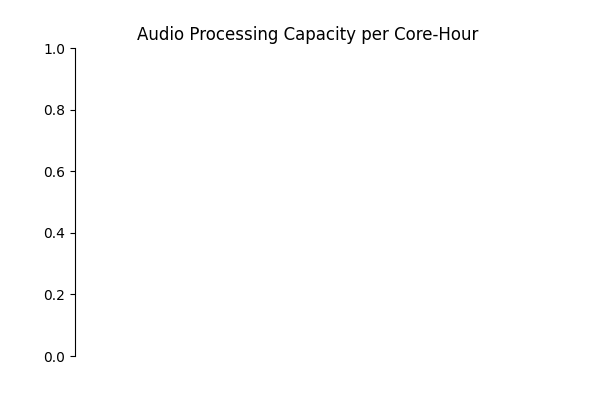
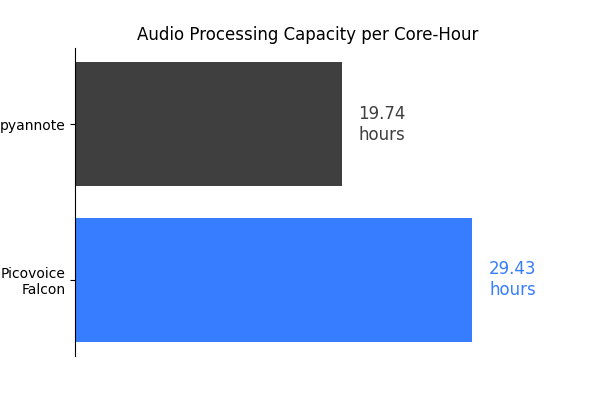
wip

diff --git a/benchmark.py b/benchmark.py
@@ -120,92 +120,46 @@ def _process_accuracy(engine: Engine, dataset: Dataset, verbose: bool = False) -
             f.write("\n")
 
 
-def _process_memory(
-        engine: Engines,
+WorkerResult = namedtuple(
+    'WorkerResult',
+    [
+        'total_audio_sec',
+        'process_time_sec',
+    ])
+
+
+def _process_worker(
+        engine_type: str,
         engine_params: Dict[str, Any],
-        dataset: Dataset,
-        verbose: bool = False) -> None:
-    WorkerResult = namedtuple(
-        'WorkerResult',
-        [
-            'total_audio_sec',
-            'process_time_per_core_sec',
-        ])
+        samples: Sequence[Tuple[str, str, float]]) -> WorkerResult:
+    engine = Engine.create(Engines(engine_type), **engine_params)
+    total_audio_sec = 0
 
-    def _process_worker(
-            engine_type: Engines,
-            engine_params: Dict[str, Any],
-            samples: Sequence[Tuple[str, str, float]]) -> WorkerResult:
-        engine = Engine.create(engine_type, **engine_params)
-        total_audio_sec = 0
+    print(f" len samples: {len(samples)}")
+    tic = perf_counter()
+    for sample in samples:
+        audio_path, _, audio_length = sample
+        print(f"Processing {audio_path}...")
+        total_audio_sec += audio_length
+        _ = engine.diarization(audio_path)
+    toc = perf_counter()
 
-        tic = perf_counter()
-        for sample in samples:
-            audio_path, _, audio_length = sample
-            total_audio_sec += audio_length
-            _ = engine.diarization(audio_path)
-        toc = perf_counter()
+    process_time = toc - tic
+    engine.cleanup()
+    print(f"Total audio time: {total_audio_sec} sec")
+    return WorkerResult(total_audio_sec, process_time)
 
-        process_time = toc - tic
-        engine.cleanup()
-        return WorkerResult(total_audio_sec, process_time)
-
-    num_workers = psutil.cpu_count(logical=False)
-    print(f"Using {num_workers} workers")
-
-    samples = list(dataset.samples[:])
-    samples = samples[:2]
-    chunk_size = math.ceil(len(samples) / num_workers)
-    futures = []
-
-    with ProcessPoolExecutor(max_workers=num_workers) as executor:
-        for i in range(num_workers):
-            chunk = samples[i * chunk_size: (i + 1) * chunk_size]
-            future = executor.submit(
-                _process_worker,
-                engine_type=Engines(engine.value),
-                engine_params=engine_params,
-                samples=chunk)
-            futures.append(future)
-
-    res = [f.results() for f in futures]
 
 
 def _process_cpu(
-        engine: Engines,
+        engine: str,
         engine_params: Dict[str, Any],
-        dataset: Dataset,
-        verbose: bool = False) -> None:
-    WorkerResult = namedtuple(
-        'WorkerResult',
-        [
-            'total_audio_sec',
-            'process_time_per_core_sec',
-        ])
-
-    def _process_worker(
-            engine_type: Engines,
-            engine_params: Dict[str, Any],
-            samples: Sequence[Tuple[str, str, float]]) -> WorkerResult:
-        engine = Engine.create(engine_type, **engine_params)
-        total_audio_sec = 0
-
-        tic = perf_counter()
-        for sample in samples:
-            audio_path, _, audio_length = sample
-            total_audio_sec += audio_length
-            _ = engine.diarization(audio_path)
-        toc = perf_counter()
-
-        process_time = toc - tic
-        engine.cleanup()
-        return WorkerResult(total_audio_sec, process_time)
+        dataset: Dataset) -> None:
 
     num_workers = psutil.cpu_count(logical=False)
-    print(f"Using {num_workers} workers")
 
     samples = list(dataset.samples[:])
-    samples = samples[:2]
+    samples = samples[:8]
     chunk_size = math.ceil(len(samples) / num_workers)
     futures = []
 
@@ -214,14 +168,14 @@ def _process_cpu(
             chunk = samples[i * chunk_size: (i + 1) * chunk_size]
             future = executor.submit(
                 _process_worker,
-                engine_type=Engines(engine.value),
+                engine_type=engine,
                 engine_params=engine_params,
                 samples=chunk)
             futures.append(future)
 
-    res = [f.results() for f in futures]
+    res = [f.result() for f in futures]
     total_audio_time_sec = sum([r.total_audio_sec for r in res])
-    total_process_time_sec = sum([r.process_time_per_core_sec for r in res])
+    total_process_time_sec = sum([r.process_time_sec for r in res])
 
     results_path = os.path.join(RESULTS_FOLDER, str(dataset), f"{str(engine)}_cpu.json")
     results = {
@@ -233,6 +187,40 @@ def _process_cpu(
         json.dump(results, f, indent=2)
 
 
+def _process_mem(
+        engine: str,
+        engine_params: Dict[str, Any],
+        dataset: Dataset) -> None:
+
+    num_workers = psutil.cpu_count(logical=False)
+
+    samples = list(dataset.samples[:])
+    samples = samples[:20]
+    chunk_size = math.ceil(len(samples) / num_workers)
+    futures = []
+
+    with ProcessPoolExecutor(max_workers=num_workers) as executor:
+        for i in range(num_workers):
+            chunk = samples[i * chunk_size: (i + 1) * chunk_size]
+            future = executor.submit(
+                _process_worker,
+                engine_type=engine,
+                engine_params=engine_params,
+                samples=chunk)
+            futures.append(future)
+
+    res = [f.results() for f in futures]
+    total_audio_time_sec = sum([r.total_audio_sec for r in res])
+    total_process_time_sec = sum([r.process_time_sec for r in res])
+
+    results_path = os.path.join(RESULTS_FOLDER, str(dataset), f"{str(engine)}_cpu.json")
+    results = {
+        "total_audio_time_sec": total_audio_time_sec,
+        "total_process_time_sec": total_process_time_sec,
+        "num_workers": num_workers,
+    }
+    with open(results_path, "w") as f:
+        json.dump(results, f, indent=2)
 def main() -> None:
     parser = argparse.ArgumentParser()
     parser.add_argument("--dataset", choices=[ds.value for ds in Datasets], required=True)
@@ -265,17 +253,14 @@ def main() -> None:
 
     if args.type == BenchmarkTypes.ACCURACY.value:
         _process_accuracy(engine, dataset, verbose=args.verbose)
-    elif args.type == BenchmarkTypes.MEMORY.value:
-        if not engine.is_offline():
-            raise ValueError(f"Memory benchmark is only supported for offline engines")
-
-        _process_memory(Engines(args.engine), engine_args, dataset, verbose=args.verbose)
     elif args.type == BenchmarkTypes.CPU.value:
         if not engine.is_offline():
             raise ValueError(f"CPU benchmark is only supported for offline engines")
-
-        _process_cpu(Engines(args.engine), engine_args, dataset, verbose=args.verbose)
-
+        _process_cpu(args.engine, engine_args, dataset)
+    elif args.type == BenchmarkTypes.MEMORY.value:
+        if not engine.is_offline():
+            raise ValueError(f"Memory benchmark is only supported for offline engines")
+        _process_mem(args.engine, engine_args, dataset)
 
 if __name__ == "__main__":
     main()

diff --git a/plot_results.py b/plot_results.py
@@ -120,15 +120,16 @@ def _plot_accuracy(
 
 def _plot_cpu(
         engine_list: List[Engines],
+        result_path: str,
         save_path: str,
         show: bool) -> None:
     engines_results_cpu = dict()
     for engine_type in engine_list:
-        result_path = os.path.join(RESULTS_FOLDER, engine_type.value + "_cpu.json")
-        if not os.path.exists(result_path):
+        engine_result_path = os.path.join(result_path, engine_type.value + "_cpu.json")
+        if not os.path.exists(engine_result_path):
             continue
 
-        with open(result_path, "r") as f:
+        with open(engine_result_path, "r") as f:
             results_json = json.load(f)
 
         engines_results_cpu[engine_type] = results_json
@@ -136,7 +137,7 @@ def _plot_cpu(
     fig, ax = plt.subplots(figsize=(6, 4))
     xlim = 0
     for engine_type, engine_value in engines_results_cpu.items():
-        processing_capacity = engine_value["total_audio_sec"] / engine_value["total_processing_sec"]
+        processing_capacity = engine_value["total_audio_time_sec"] / engine_value["total_process_time_sec"]
         xlim = max(xlim, processing_capacity)
         ax.barh(
             ENGINE_PRINT_NAMES.get(engine_type, engine_type.value),
@@ -172,16 +173,17 @@ def _plot_cpu(
 
 def _plot_mem(
         engine_list: List[Engines],
+        result_path: str,
         save_path: str,
         show: bool) -> None:
     engines_results_mem = dict()
 
     for engine_type in engine_list:
-        result_path = os.path.join(RESULTS_FOLDER, engine_type.value + "_mem.json")
-        if not os.path.exists(result_path):
+        engine_result_path = os.path.join(result_path, engine_type.value + "_mem.json")
+        if not os.path.exists(engine_result_path):
             continue
 
-        with open(result_path, "r") as f:
+        with open(engine_result_path, "r") as f:
             results_json = json.load(f)
 
         engines_results_mem[engine_type] = results_json
@@ -189,7 +191,7 @@ def _plot_mem(
     fig, ax = plt.subplots(figsize=(6, 4))
     xlim = 0
     for engine_type, engine_value in engines_results_mem.items():
-        max_mem_usage = engine_value["max_mem_MB"] / 1024
+        max_mem_usage = engine_value["max_mem_GiB"]
         xlim = max(xlim, max_mem_usage)
         ax.barh(
             ENGINE_PRINT_NAMES.get(engine_type, engine_type.value),
@@ -236,8 +238,8 @@ def main() -> None:
 
     result_dataset_path = os.path.join(RESULTS_FOLDER, dataset_name)
     _plot_accuracy(sorted_engines, result_dataset_path, os.path.join(save_path, dataset_name), args.show)
-    _plot_cpu(sorted_engines, save_path, args.show)
-    _plot_mem(sorted_engines, save_path, args.show)
+    _plot_mem(sorted_engines, result_dataset_path, save_path, args.show)
+    _plot_cpu(sorted_engines, result_dataset_path, save_path, args.show)
 
 
 if __name__ == "__main__":

diff --git a/mem_monitor.py b/mem_monitor.py
@@ -29,7 +29,9 @@ def main() -> None:
 
     results_folder = os.path.join(RESULTS_FOLDER, dataset_name)
     max_mem = 0
+    print(f"Monitoring memory usage for {engine_type}")
     try:
+        print("Press Ctrl+C to stop monitoring")
         while True:
             used_memory = psutil.virtual_memory().used
             used_swap = psutil.swap_memory().used
@@ -38,10 +40,10 @@ def main() -> None:
             time.sleep(1)
 
     except KeyboardInterrupt:
-        print(f"Max memory usage: {max_mem / 1024 / 1024} MB")
+        print(f"Max memory usage: {max_mem / 1024 / 1024} MiB")
         results_path = os.path.join(results_folder, f"{engine_type}_mem.json")
         results = dict()
-        results["max_mem_MB"] = max_mem / 1024 / 1024
+        results["max_mem_GiB"] = max_mem / 1024 / 1024 / 1024
         with open(results_path, "w") as f:
             json.dump(results, f, indent=2)
 
